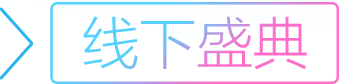
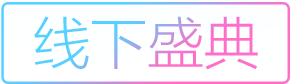
修改邀请函封面及陀螺仪速度

Changed region(s): [[0.0, 0.0238, 0.9278, 1.0], [0.9588, 0.0238, 1.0, 1.0]]

diff --git a/static/css/invitation/invitation.css b/static/css/invitation/invitation.css
@@ -151,35 +151,43 @@ html,body {
     }
 }
 .cover-slide, .shining{
-  width: 180px;
+  width: 150px;
   position: absolute;
   left: 50%;
-  margin-left: -90px;
-  top: 63%;
+  margin-left: -75px;
+  top: 66%;
 }
 .cover-slide-text{
   color: #fe6eca;
   padding: 5px;
   font-size: 30px;
   border-radius: 4px;
-  /*border: solid 1px #fe6eca;*/
+  border: solid 1px #fe6eca;
   text-align: center;
-  width: 120px;
+  width: 140px;
   position: absolute;
   left: 50%;
-  margin-left: -50px;
+  margin-left: -70px;  
   margin-top: 3px;
-  top: 63%;
+  top: 65%;
+}
+.reminder{
+  color: rgba(255,255,255,0.8);
+  top: 59%;
+  text-align: center;
+  position: absolute;
+  width: 250px;
+  left: 50%;
+  margin-left: -125px;
+  font-size: 1.1em;
   background: -webkit-gradient(
-    linear,left top,right top,color-stop(0, #fe6eca),
-    color-stop(0.4, #fe6eca),color-stop(0.5, white),
-    color-stop(0.6, #fe6eca),
-    color-stop(1, #fe6eca)); 
-  
-  /*background: -webkit-linear-gradient(left, rgba(86,209,255,1) 0%, rgba(255,255,255,1) 59%, rgba(254,110,202,1) 100%);*/
+    linear,left top,right top,color-stop(0, #B8B6B6),
+    color-stop(0.4, #B8B6B6),color-stop(0.5, white),
+    color-stop(0.6, #B8B6B6),
+    color-stop(1, #B8B6B6)); 
   -webkit-background-clip: text;
   -webkit-text-fill-color: transparent;
-  -webkit-animation: slidetounlock 15s linear infinite;
+  -webkit-animation: slidetounlock 20s linear infinite;
 }
 .slide-border{
   width: 180px;
@@ -192,10 +200,10 @@ html,body {
 
 @-webkit-keyframes slidetounlock {
   0% {
-    background-position: -720px 0;
+    background-position: -1020px 0;
   }
   100%{
-    background-position: 720px 0;
+    background-position: 1020px 0;
   }
 }
 /*.shining{
@@ -217,7 +225,7 @@ html,body {
     position: absolute;
     left: 0;
     right: 0;
-  bottom: 40px;
+  bottom: 30px;
   text-align: center;
   padding: 15px 0;
 }

diff --git a/static/js/invitation/main.js b/static/js/invitation/main.js
@@ -108,7 +108,7 @@ var imageLoader = new LoadImages();
 	 *
 	 */
 	var onMotion = function(e) {
-		// console.log(vec3);
+		console.log(vec3);
 		vec3.set(e.vec3.x, e.vec3.y, e.vec3.z);
 		if (range) vec3 = blocker.block(vec3);
 		rotate(vec3);
@@ -116,11 +116,13 @@ var imageLoader = new LoadImages();
 	var box = $('.t-ios-main .box');
 	var track = $('.t-track .track-inner');
 	// var rotateStr = 'translate3d(0, 0, 500px) rotateZ({2}deg) rotateX(-90deg) rotateX({0}deg) rotateY({1}deg) rotateY(0deg)';
-	var rotateStr = 'translate3d({3}px, 0, 500px) rotateZ({2}deg) rotateX({0}deg) rotateY({1}deg)';
+	var rotateStr = 'translate3d({3}px, 0, 500px) rotateZ({2}deg) rotateX(0deg) rotateX({0}deg) rotateY({1}deg)';
 	var trackStr = 'rotateX({0}deg) rotate({1}deg)';
-	var rotate = function(e){
-		var rotateEnd = rotateStr.replace('{1}', 0).replace('{0}', 0).replace('{2}', (e.z % 360000) * -1).replace('{3}', (e.x-60) * -1);
+	var rotate = function(e){	
+		var rotateY = e.x * -1;
+		var rotateEnd = rotateStr.replace('{1}', 0).replace('{0}', 0).replace('{2}', (e.z % 360000) * -1).replace('{3}', (e.x-40) * -1.4);
 		// var rotateEnd = rotateStr.replace('{1}', e.x * -1).replace('{0}', 0).replace('{2}', (e.z % 3600000) * -1);
+		// var rotateEnd = rotateStr.replace('{1}', e.x * -1).replace('{0}', e.y).replace('{2}', (e.z % 3600000) * -1);
 		var trackEnd = trackStr.replace('{0}', e.y - 30).replace('{1}', -1*e.x%360);
 		box[0].style.webkitTransform = rotateEnd;
 		track[0].style.webkitTransform = trackEnd;
@@ -163,7 +165,7 @@ var imageLoader = new LoadImages();
 		user.addEventListener('supportStatusUpdate', onSupportUpdate);
 
 		//图片加载完成之后，执行设备测试:1
-		coverFade();
+		// coverFade();
 		slideInit();
 		user.test();
 

diff --git a/templates/invitation.html b/templates/invitation.html
@@ -28,10 +28,11 @@
 				<div class="square" style="bottom:-4px;left:50%;margin-left:-4px;"></div>
 				<div class="square" style="top:50%;left:-4px;"></div>
 			</div>
-			<!-- <img class="cover-slide" src="/static/css/invitation/cover/slide.png"> -->
 			<!-- <div class="shining"></div> -->
-			<img class="slide-border" src="/static/css/invitation/cover/slide-border.png">		
-			<div class="cover-slide-text">线下盛典</div>
+			<!-- <img class="slide-border" src="/static/css/invitation/cover/slide-border.png">		 -->
+			<p class="reminder">用手指转动圆圈打开邀请函</p>
+			<img class="cover-slide" src="/static/css/invitation/cover/slide.png">
+			<!-- <div class="cover-slide-text">线下盛典</div> -->
 
 			<div class="cover-text-wrapper">
 				<img src="/static/css/invitation/cover/text.png">
